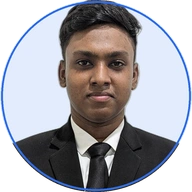
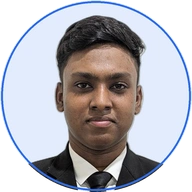
feat(seo): add robots.txt, sitemap.xml, llms.txt, OpenGraph, and Schema.org JSON-LD structured data

diff --git a/index.html b/index.html
@@ -8,6 +8,141 @@
   <meta name="author" content="Krishnendu Biswas">
   <meta name="theme-color" content="#FAFAF7" id="metaThemeColor">
 
+  <meta name="robots" content="index, follow, max-image-preview:large, max-snippet:-1, max-video-preview:-1">
+  <link rel="canonical" href="https://krishnendu.me/">
+
+  <!-- Open Graph & Social Cards -->
+  <meta property="og:site_name" content="Krishnendu Biswas">
+  <meta property="og:type" content="profile">
+  <meta property="og:title" content="Krishnendu Biswas | AI Systems Developer & Researcher">
+  <meta property="og:description" content="Personal chronicle and engineering portfolio of Krishnendu Biswas. AI agent systems developer, published researcher (Springer FICTA 2026), MBA at IIM Ranchi, IIT Madras.">
+  <meta property="og:url" content="https://krishnendu.me/">
+  <meta property="og:image" content="https://krishnendu.me/assets/avatar_512.webp">
+  <meta property="og:image:width" content="512">
+  <meta property="og:image:height" content="512">
+  <meta property="og:image:alt" content="Krishnendu Biswas Avatar">
+  <meta property="profile:first_name" content="Krishnendu">
+  <meta property="profile:last_name" content="Biswas">
+  <meta property="profile:username" content="krshnndu">
+
+  <!-- Twitter Card -->
+  <meta name="twitter:card" content="summary">
+  <meta name="twitter:title" content="Krishnendu Biswas | AI Systems Developer & Researcher">
+  <meta name="twitter:description" content="Personal chronicle of Krishnendu Biswas. AI agent systems developer, published researcher, IIM Ranchi and IIT Madras.">
+  <meta name="twitter:image" content="https://krishnendu.me/assets/avatar_512.webp">
+  <meta name="twitter:image:alt" content="Krishnendu Biswas Avatar">
+
+  <!-- Favicon Links -->
+  <link rel="icon" type="image/x-icon" href="/favicon.ico">
+  <link rel="icon" type="image/webp" sizes="192x192" href="/assets/avatar_192.webp">
+  <link rel="apple-touch-icon" sizes="180x180" href="/assets/avatar_192.webp">
+
+  <!-- Schema.org JSON-LD Structured Data for Google Knowledge Graph and AI Search -->
+  <script type="application/ld+json">
+{
+  "@context": "https://schema.org",
+  "@graph": [
+    {
+      "@type": "Person",
+      "@id": "https://krishnendu.me/#person",
+      "name": "Krishnendu Biswas",
+      "givenName": "Krishnendu",
+      "familyName": "Biswas",
+      "url": "https://krishnendu.me/",
+      "image": "https://krishnendu.me/assets/avatar_512.webp",
+      "jobTitle": "AI Systems Developer & Research Analyst",
+      "description": "AI agent systems engineer, published researcher, and management scholar at IIM Ranchi and IIT Madras.",
+      "email": "mailto:krishnendu.biswasi22@iimranchi.ac.in",
+      "sameAs": [
+        "https://github.com/krshnndu",
+        "https://www.linkedin.com/in/krshnndu",
+        "https://krishnendu.me/"
+      ],
+      "alumniOf": [
+        {
+          "@type": "EducationalOrganization",
+          "name": "Indian Institute of Management Ranchi",
+          "url": "https://iimranchi.ac.in/",
+          "sameAs": "https://en.wikipedia.org/wiki/Indian_Institute_of_Management_Ranchi"
+        },
+        {
+          "@type": "EducationalOrganization",
+          "name": "Indian Institute of Technology Madras",
+          "url": "https://www.iitm.ac.in/",
+          "sameAs": "https://en.wikipedia.org/wiki/Indian_Institute_of_Technology_Madras"
+        }
+      ],
+      "knowsAbout": [
+        "AI Agent Architectures",
+        "Affect Detection in Dialogue",
+        "Natural Language Processing",
+        "Transformer Fine-Tuning",
+        "Retrieval-Augmented Generation",
+        "Machine Learning Engineering",
+        "Imbalanced Data Classification",
+        "Python Software Engineering"
+      ]
+    },
+    {
+      "@type": "WebSite",
+      "@id": "https://krishnendu.me/#website",
+      "url": "https://krishnendu.me/",
+      "name": "Krishnendu Biswas",
+      "description": "Personal chronicle, AI agent systems engineering, and research portfolio of Krishnendu Biswas.",
+      "publisher": {
+        "@id": "https://krishnendu.me/#person"
+      },
+      "inLanguage": "en"
+    },
+    {
+      "@type": "ProfilePage",
+      "@id": "https://krishnendu.me/#webpage",
+      "url": "https://krishnendu.me/",
+      "name": "Krishnendu Biswas | Vol. 23 Chronicle",
+      "isPartOf": {
+        "@id": "https://krishnendu.me/#website"
+      },
+      "about": {
+        "@id": "https://krishnendu.me/#person"
+      },
+      "mainEntity": {
+        "@id": "https://krishnendu.me/#person"
+      },
+      "primaryImageOfPage": {
+        "@type": "ImageObject",
+        "url": "https://krishnendu.me/assets/avatar_512.webp"
+      },
+      "dateModified": "2026-10-03"
+    },
+    {
+      "@type": "ScholarlyArticle",
+      "@id": "https://krishnendu.me/#ficta-2026-paper",
+      "headline": "Multi-Class Affect Detection in Educational Chatbots: Evidence from Imbalanced Dialogue Data",
+      "name": "Multi-Class Affect Detection in Educational Chatbots: Evidence from Imbalanced Dialogue Data",
+      "author": {
+        "@id": "https://krishnendu.me/#person"
+      },
+      "publisher": {
+        "@type": "Organization",
+        "name": "Springer Nature"
+      },
+      "publication": {
+        "@type": "PublicationEvent",
+        "name": "International Conference on Frontiers in Intelligent Computing: Theory and Applications (FICTA 2026)"
+      },
+      "description": "Research paper presenting a RoBERTa and SVMSMOTE framework for imbalanced dialogue emotion recognition achieving 74.19% recall on confused-emotion class.",
+      "inLanguage": "en",
+      "about": [
+        "Affect Detection",
+        "Imbalanced Dialogue Data",
+        "SVMSMOTE",
+        "RoBERTa"
+      ]
+    }
+  ]
+}
+  </script>
+
   <!-- Preconnect and Google Fonts -->
   <link rel="preconnect" href="https://fonts.googleapis.com">
   <link rel="preconnect" href="https://fonts.gstatic.com" crossorigin>
